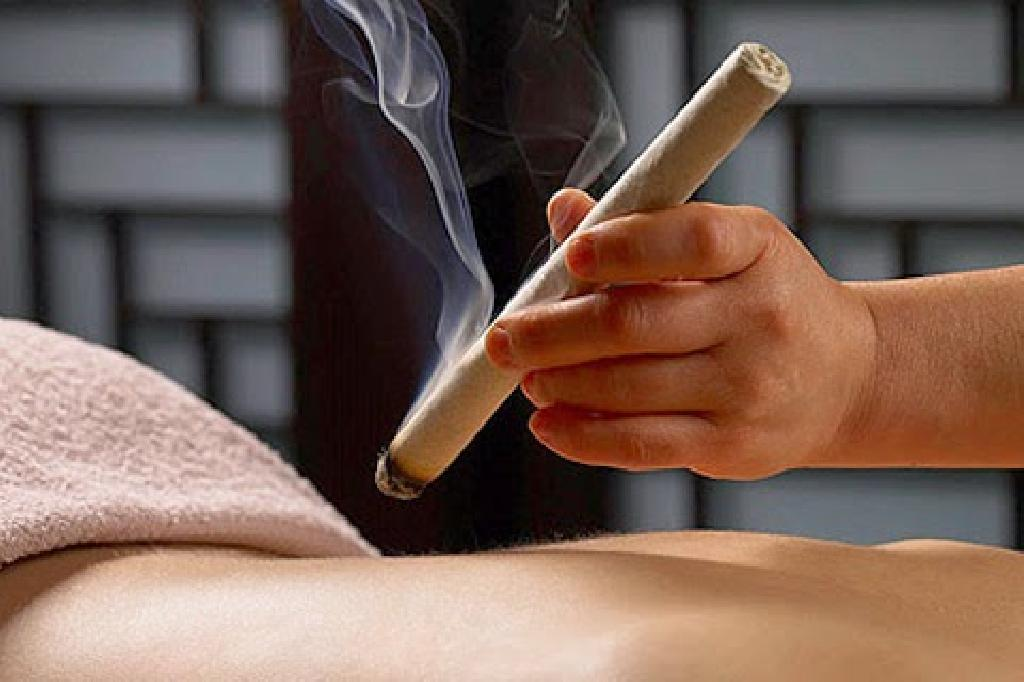
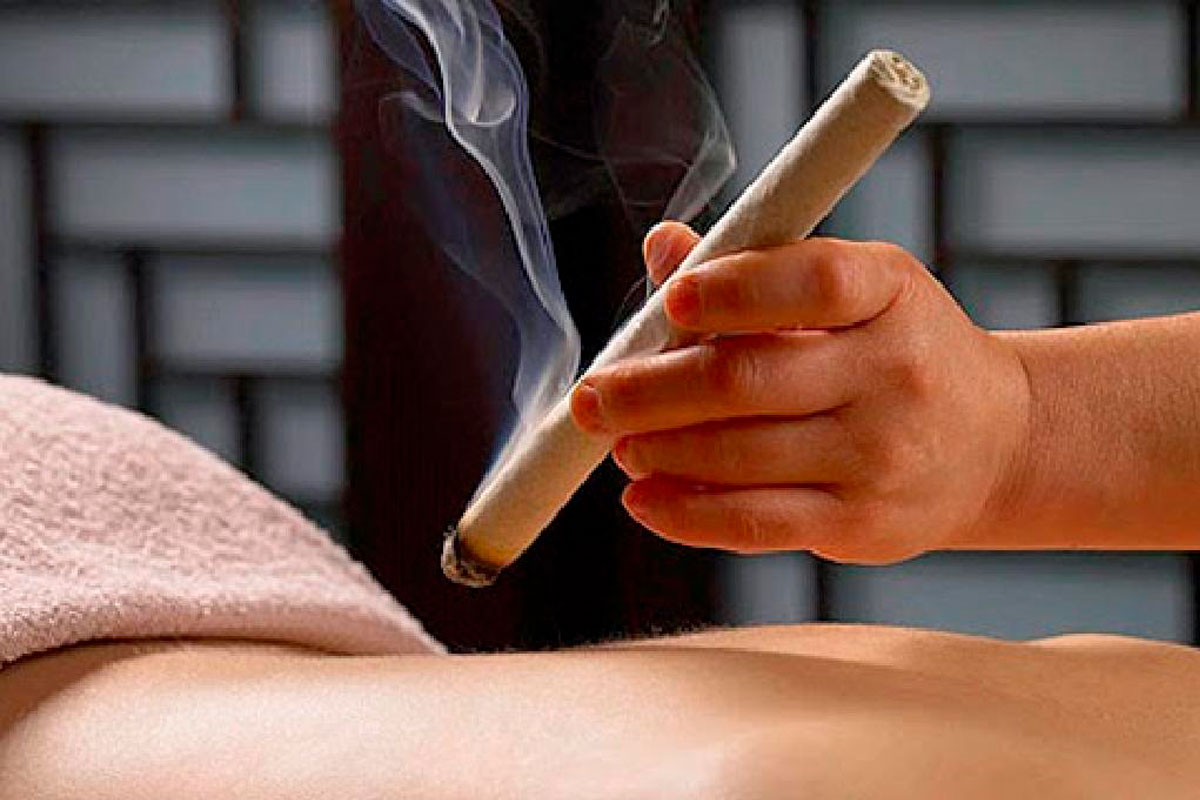
update

diff --git a/index.html b/index.html
@@ -1,8 +1,8 @@
 <!doctype html>
-<html lang="en">
+<html lang="pt-BR">
 
 <head>
-    <title>Title</title>
+    <title>acupuntura-Mari.C.</title>
     <!-- Required meta tags -->
     <meta charset="utf-8">
     <meta name="viewport" content="width=device-width, initial-scale=1, shrink-to-fit=no">
@@ -15,24 +15,21 @@
 
 </head>
 
-<body>
+<body class="bg-success">
     <header>
         <!-- place navbar here -->
         <nav class="navbar  navbar-dark bg-dark">
-            <a class="navbar-brand ms-4" href="#">Dra° Mariana de Lima Campos</a>            
+            <a class="navbar-brand ms-4 text-light" href="#">Dra° Mariana de Lima Campos</a>
             <div class="nav-item" id="">
                 <ul class="nav justify-content-end">
                     <li class="nav-item">
-                        <a class="nav-link active" href="#" aria-current="page">Home</a>
+                        <a class="nav-link active text-light" href="#" aria-current="page">Home</a>
                     </li>
                     <li class="nav-item">
-                        <a class="nav-link active" href="#" aria-current="page">Tratamento</a>
+                        <a class="nav-link active text-light" href="" aria-current="page">Tratamento</a>
                     </li>
                     <li class="nav-item">
-                        <a class="nav-link active" href="#" aria-current="page">cursos</a>
-                    </li>
-                    <li class="nav-item">
-                        <a class="nav-link active" href="#" aria-current="page">Contatos</a>
+                        <a class="nav-link active text-light" href="#" aria-current="page">Contatos</a>
                     </li>
                 </ul>
             </div>
@@ -41,46 +38,135 @@
     <main>
         <div id="carouselExampleCaptions" class="carousel slide" data-bs-ride="false">
             <div class="carousel-indicators text-dark">
-              <button type="button" data-bs-target="#carouselExampleCaptions" data-bs-slide-to="0" class="active" aria-current="true" aria-label="Slide 1"></button>
-              <button type="button" data-bs-target="#carouselExampleCaptions" data-bs-slide-to="1" aria-label="Slide 2"></button>
-              <button type="button" data-bs-target="#carouselExampleCaptions" data-bs-slide-to="2" aria-label="Slide 3"></button>
+                <button type="button" data-bs-target="#carouselExampleCaptions" data-bs-slide-to="0" class="active"
+                    aria-current="true" aria-label="Slide 1"></button>
+                <button type="button" data-bs-target="#carouselExampleCaptions" data-bs-slide-to="1"
+                    aria-label="Slide 2"></button>
+                <button type="button" data-bs-target="#carouselExampleCaptions" data-bs-slide-to="2"
+                    aria-label="Slide 3"></button>
             </div>
             <div class="carousel-inner">
-              <div class="carousel-item active">
-                <img src="img/agulhas-de-acupuntura.jpg" class="rounded mx-auto d-block mt-4" alt="...">
-                <div class="carousel-caption d-none d-md-block">
-                  <h5 class="text-dark">Acupuntura</h5>
-                  <p class="text-dark">Terapia milenar originária da China</p>
+                <div class="carousel-item active">
+                    <img src="img/agulhas-de-acupuntura.jpg" class="rounded mx-auto d-block mt-4" alt="...">
+                    <div class="carousel-caption d-none d-md-block">
+                        <h5 class="text-dark">Acupuntura</h5>
+                        <p class="text-dark">Terapia milenar originária da China</p>
+                    </div>
                 </div>
-              </div>
-              <div class="carousel-item">
-                <img src="img/ventosaterapia.jpg" class="rounded mx-auto d-block mt-4" alt="...">
-                <div class="carousel-caption d-none d-md-block">
-                  <h5 class="text-dark">Ventosaterapia</h5>
-                  <p class="text-dark">A ventosaterapia é um tipo de tratamento natural no qual são usadas ventosas para melhorar a circulação sanguínea</p>
+                <div class="carousel-item">
+                    <img src="img/ventosaterapia.jpg" class="rounded mx-auto d-block mt-4" alt="...">
+                    <div class="carousel-caption d-none d-md-block">
+                        <h5 class="text-dark">Ventosaterapia</h5>
+                        <p class="text-dark">A ventosaterapia é um tipo de tratamento natural no qual são usadas
+                            ventosas para melhorar a circulação sanguínea</p>
+                    </div>
                 </div>
-              </div>
-              <div class="carousel-item">
-                <img src="img/acupuntura-auricular-spazio-corpore.jpg" class="rounded mx-auto d-block mt-4" alt="...">
-                <div class="carousel-caption d-none d-md-block">
-                  <h5 class="text-dark">Auriculoterapia</h5>
-                  <p class="text-dark">A auriculoterapia tem sido importante aliada da medicina brasileira.</p>
+                <div class="carousel-item">
+                    <img src="img/acupuntura-auricular-spazio-corpore.jpg" class="rounded mx-auto d-block mt-4"
+                        alt="...">
+                    <div class="carousel-caption d-none d-md-block">
+                        <h5 class="text-dark">Auriculoterapia</h5>
+                        <p class="text-dark">A auriculoterapia tem sido importante aliada da medicina brasileira.</p>
+                    </div>
                 </div>
-              </div>
             </div>
-            <button class="carousel-control-prev" type="button" data-bs-target="#carouselExampleCaptions" data-bs-slide="prev">
-              <span class="carousel-control-prev-icon" aria-hidden="true"></span>
-              <span class="visually-hidden">Previous</span>
+            <button class="carousel-control-prev" type="button" data-bs-target="#carouselExampleCaptions"
+                data-bs-slide="prev">
+                <span class="carousel-control-prev-icon" aria-hidden="true"></span>
+                <span class="visually-hidden">Previous</span>
             </button>
-            <button class="carousel-control-next" type="button" data-bs-target="#carouselExampleCaptions" data-bs-slide="next">
-              <span class="carousel-control-next-icon" aria-hidden="true"></span>
-              <span class="visually-hidden">Next</span>
+            <button class="carousel-control-next" type="button" data-bs-target="#carouselExampleCaptions"
+                data-bs-slide="next">
+                <span class="carousel-control-next-icon" aria-hidden="true"></span>
+                <span class="visually-hidden">Next</span>
             </button>
-          </div>
+        </div>
+
+        <h1 class="text-center mt-5">MEDICINA TRADICIONAL CHINESA E TRATAMENTOS PARA SAÚDE </h1>
+
+        <section class="d-flex m-5 justify-content-center ">
+            <div class="card mx-3" style="width: 18rem;">
+                <img src="img/2.jpg" class="card-img-top" alt="...">
+                <div class="card-body">
+                    <h5 class="card-title text-center">Acupuntura</h5>
+                    <p class="card-text">A acupuntura é uma terapia milenar originária da China, que consiste na
+                        aplicação de agulhas em pontos específicos do corpo para tratar doenças e para promover saúde.
+                        Estas agulhas, quando aplicadas sobre algumas regiões específicas são capazes de tratar diversas
+                        doenças físicas ou emocionais como sinusite, asma, enxaqueca ou artrite por exemplo, além de
+                        melhorar o sistema imunitário.
+                        .</p>
+                </div>
+            </div>
+            <div class="card mx-3" style="width: 18rem;">
+                <img src="img/ventosssaaa.jpg" class="card-img-top" alt="...">
+                <div class="card-body">
+                    <h5 class="card-title text-center">Ventosaterapia</h5>
+                    <p class="card-text">A ventosaterapia é um tipo de tratamento natural no qual são usadas ventosas
+                        para melhorar a circulação sanguínea em um local do corpo. Para isso, as ventosas criam um
+                        efeito de vácuo, que suga a pele, resultando em um aumento do diâmetro dos vasos sanguíneo no
+                        exato local. Como resultado, existe uma maior oxigenação destes tecidos, permitindo a liberação
+                        de toxinas do sangue e do músculo com mais facilidade.</p>
+                </div>
+            </div>
+            <div class="card mx-3" style="width: 18rem;">
+                <img src="img/auriculoterapia222.webp" class="card-img-top" alt="...">
+                <div class="card-body">
+                    <h5 class="card-title text-center">Auriculoterapia</h5>
+                    <p class="card-text">Inspirada na terapia milenar chinesa, a auriculoterapia tem sido importante
+                        aliada da medicina brasileira. Embora possa utilizar agulhas, não causa nenhum desconforto. Pelo
+                        contrário, alivia dores do corpo e da alma, sem efeito colateral nem dependência química.</p>
+                </div>
+            </div>
+            <div class="card mx-3" style="width: 18rem;">
+                <img src="img/5.jpg" class="card-img-top" alt="...">
+                <div class="card-body">
+                    <h5 class="card-title text-center">Moxa</h5>
+                    <p class="card-text">A moxa é uma técnica terapêutica da Medicina Tradicional Chinesa. A moxa
+                        funciona quando um tipo de bastão é aceso com fogo, e o terapeuta faz com que ele fique em
+                        distância da pele do cliente. Esta distância varia muito de acordo com a capacidade de
+                        tolerância do cliente.</p>
+                </div>
+            </div>
+        </section>
+
+        <div class="clearfix">
+            <img src="img/Captura de tela 2022-11-25 134842.png" class="col-md-2 float-md-end mb-3 ms-md-3 mx-5"
+                alt="...">
+
+            <p class="ms-4 text-center">
+                <br>Doutora Mariana Campos se formou em fisioterapia no ano 2008 pela Fundação Educacional de
+                Fernandópolis
+                (FEF) um dos maiores polos universitários da região noroeste do estado de São Paulo.
+            </p>
+
+            <p class="ms-4 text-center">
+                <br>Fez pós-graduação na ETOSP, escola de terapias orientais de São Paulo.
+                A ETOSP é um centro progressivo de estudos e pesquisa em Medicina Tradicional Chinesa e Terapias
+                Orientais.
+            </p>
+        </div>
+
 
     </main>
     <footer>
         <!-- place footer here -->
+        <footer class="site-footer text-center bg-dark mb-1">
+            <div class="container">
+                <div class="row">
+                    <div class="col-sm-12 col-md-6">
+                        <h6 class="text-light">Acesso rápido</h6>
+                        <p class="text-justify text-light"><i>Home</i></p>
+                        <p class="text-justify text-light"><i>Tratamento</i></p>
+                        <p class="text-justify text-light"><i>Contatos</i></p>
+                    </div>
+                </div>
+            </div>
+            <div class="container">
+                <p class="text-center text-light mb-0">
+                    marianacacupuntura@gmail.com / 
+                </p>
+            </div>
+        </footer>
     </footer>
     <!-- Bootstrap JavaScript Libraries -->
     <script src="https://cdn.jsdelivr.net/npm/@popperjs/core@2.11.6/dist/umd/popper.min.js"
